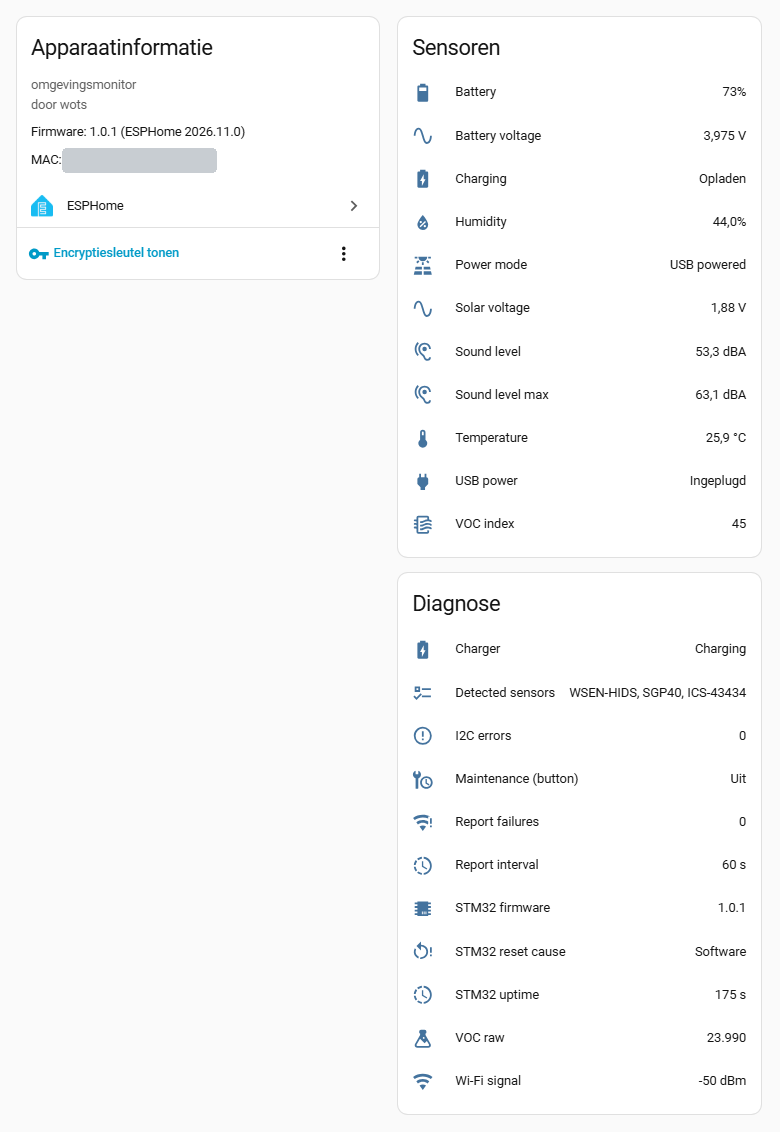
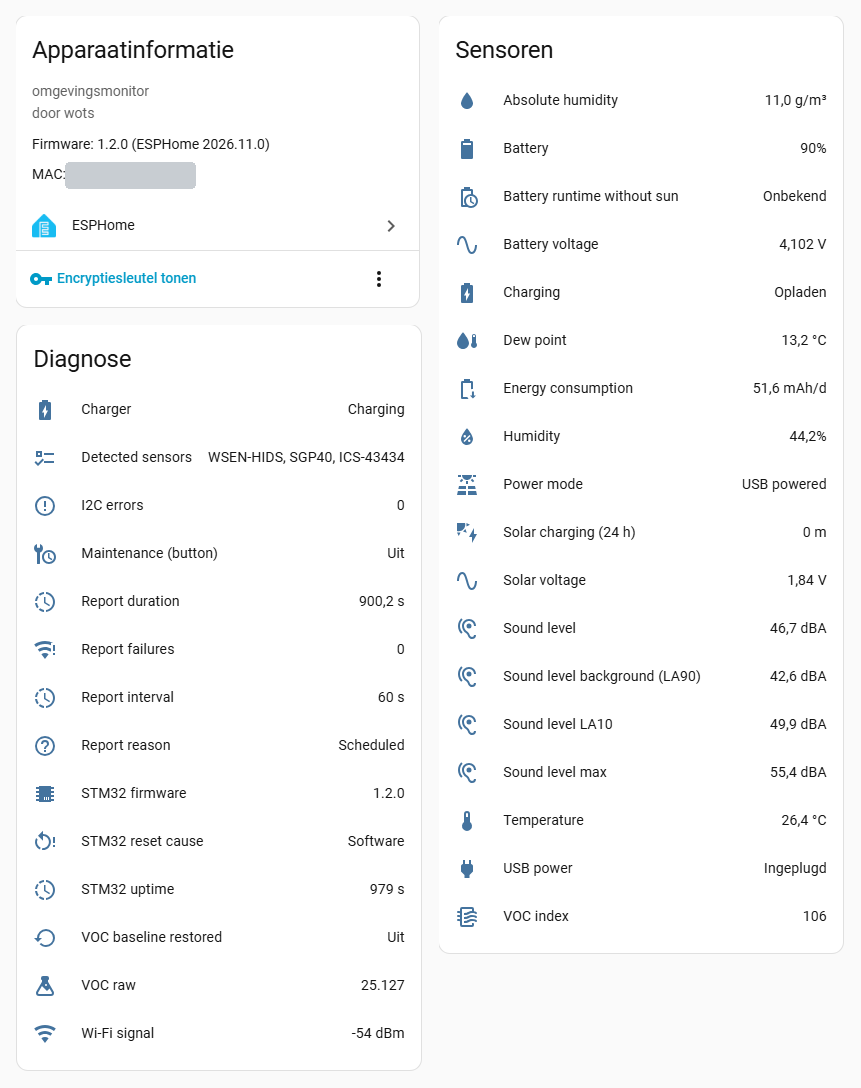
Update Home Assistant screenshot for 1.2.0
Device info, Sensoren and Diagnose with all 1.2.0 entities; MAC address
covered, area and linked devices left out.

diff --git a/omgevingsmonitor/README.md b/omgevingsmonitor/README.md
@@ -41,7 +41,7 @@ Smart behaviour:
 * **Battery life**: the STM32 estimates its own consumption from measured on-times; the Home
   Assistant package adds the 24 h battery trend and the battery life including the sun.
 
-<img src="docs/home-assistant.png" alt="The Omgevingsmonitor in Home Assistant" width="560">
+<img src="docs/home-assistant.png" alt="The Omgevingsmonitor in Home Assistant" width="680">
 
 ## Energy design
 
